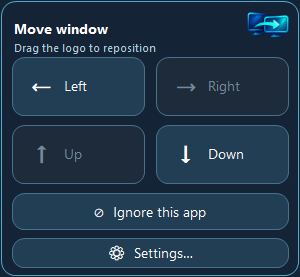
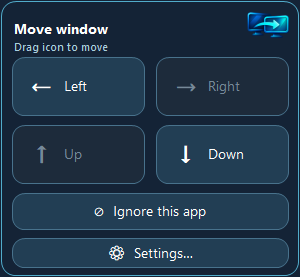
Fix overlay labels and bring settings to front

Changed region(s): [[0.06, 0.1444, 0.54, 0.2022], [0.39, 0.7509, 0.69, 0.8087], [0.3, 0.7509, 0.36, 0.7798]]

diff --git a/MonitorHop/OverlayForm.cs b/MonitorHop/OverlayForm.cs
@@ -265,14 +265,13 @@ internal sealed class OverlayForm : Form
         using var headingFont = new Font("Segoe UI", 10, FontStyle.Bold);
         using var labelFont = new Font("Segoe UI", 10);
         using var arrowFont = new Font("Segoe UI Symbol", 19, FontStyle.Bold);
-        TextRenderer.DrawText(graphics, Texts.Get(_language,
+        DrawFittedText(graphics, Texts.Get(_language,
                 _showMonitorMap ? "MonitorMapTitle" : "MoveWindow"), headingFont,
-            new Rectangle(14, 15, 226, 27), Color.White,
-            TextFormatFlags.Left | TextFormatFlags.VerticalCenter | TextFormatFlags.NoPadding);
+            new Rectangle(14, 15, 226, 27), Color.White, TextFormatFlags.Left);
         using var hintFont = new Font("Segoe UI", 8);
-        TextRenderer.DrawText(graphics, Texts.Get(_language, "DragHint"), hintFont,
+        DrawFittedText(graphics, Texts.Get(_language, "DragHint"), hintFont,
             new Rectangle(14, 39, 225, 16), Color.FromArgb(171, 206, 223),
-            TextFormatFlags.Left | TextFormatFlags.VerticalCenter | TextFormatFlags.NoPadding);
+            TextFormatFlags.Left);
         graphics.DrawImage(Branding.Image, new Rectangle(247, 3, 43, 43));
 
         if (_showMonitorMap)
@@ -288,23 +287,53 @@ internal sealed class OverlayForm : Form
                 TextRenderer.DrawText(graphics, Glyphs[i], arrowFont,
                     new Rectangle(rectangle.Left + 12, rectangle.Top + 9, 36, 36), ink,
                     TextFormatFlags.HorizontalCenter | TextFormatFlags.VerticalCenter | TextFormatFlags.NoPadding);
-                TextRenderer.DrawText(graphics, Texts.Get(_language, Directions[i].ToString()), labelFont,
+                DrawFittedText(graphics, Texts.Get(_language, Directions[i].ToString()), labelFont,
                     new Rectangle(rectangle.Left + 52, rectangle.Top + 13, 76, 31), ink,
-                    TextFormatFlags.Left | TextFormatFlags.VerticalCenter | TextFormatFlags.NoPadding);
+                    TextFormatFlags.Left);
             }
         }
 
         var ignore = IgnoreRect();
         PaintButton(graphics, ignore, true, _hovered == 4);
-        TextRenderer.DrawText(graphics, "⊘  " + Texts.Get(_language, "IgnoreApp"), labelFont,
-            ignore, Color.White,
-            TextFormatFlags.HorizontalCenter | TextFormatFlags.VerticalCenter | TextFormatFlags.NoPadding);
+        DrawFittedText(graphics, "⊘  " + Texts.Get(_language, "IgnoreApp"), labelFont,
+            Rectangle.Inflate(ignore, -10, 0), Color.White, TextFormatFlags.HorizontalCenter);
 
         var settings = SettingsRect();
         PaintButton(graphics, settings, true, _hovered == 5);
-        TextRenderer.DrawText(graphics, "⚙  " + Texts.Get(_language, "Settings"), labelFont,
-            settings, Color.White,
-            TextFormatFlags.HorizontalCenter | TextFormatFlags.VerticalCenter | TextFormatFlags.NoPadding);
+        DrawFittedText(graphics, "⚙  " + Texts.Get(_language, "Settings"), labelFont,
+            Rectangle.Inflate(settings, -10, 0), Color.White, TextFormatFlags.HorizontalCenter);
+    }
+
+    private static void DrawFittedText(Graphics graphics, string text, Font font,
+        Rectangle bounds, Color color, TextFormatFlags alignment)
+    {
+        const TextFormatFlags flags = TextFormatFlags.SingleLine |
+            TextFormatFlags.VerticalCenter | TextFormatFlags.NoPadding |
+            TextFormatFlags.EndEllipsis | TextFormatFlags.PreserveGraphicsClipping;
+        Font? smaller = null;
+        try
+        {
+            if (TextRenderer.MeasureText(graphics, text, font, Size.Empty,
+                TextFormatFlags.SingleLine | TextFormatFlags.NoPadding).Width <= bounds.Width)
+            {
+                TextRenderer.DrawText(graphics, text, font, bounds, color, flags | alignment);
+                return;
+            }
+            for (float size = font.Size - 0.5f; size >= 7; size -= 0.5f)
+            {
+                Font candidate = new(font.FontFamily, size, font.Style);
+                if (TextRenderer.MeasureText(graphics, text, candidate, Size.Empty,
+                    TextFormatFlags.SingleLine | TextFormatFlags.NoPadding).Width <= bounds.Width)
+                {
+                    smaller = candidate;
+                    break;
+                }
+                candidate.Dispose();
+            }
+            TextRenderer.DrawText(graphics, text, smaller ?? font, bounds, color,
+                flags | alignment);
+        }
+        finally { smaller?.Dispose(); }
     }
 
     private static void PaintButton(Graphics graphics, Rectangle rect, bool enabled, bool hovered)

diff --git a/MonitorHop/Texts.cs b/MonitorHop/Texts.cs
@@ -39,7 +39,7 @@ internal static class Texts
         ["Save"] = ("Сохранить", "Save", "Salvesta"),
         ["Cancel"] = ("Отмена", "Cancel", "Loobu"),
         ["MoveWindow"] = ("Перенести окно", "Move window", "Teisalda aken"),
-        ["DragHint"] = ("Перетащите значок, чтобы сдвинуть", "Drag the logo to reposition", "Asukoha muutmiseks lohista ikooni"),
+        ["DragHint"] = ("Перетащите значок", "Drag icon to move", "Lohista ikooni"),
         ["Left"] = ("Влево", "Left", "Vasakule"),
         ["Right"] = ("Вправо", "Right", "Paremale"),
         ["Up"] = ("Вверх", "Up", "Üles"),

diff --git a/MonitorHop/SettingsForm.cs b/MonitorHop/SettingsForm.cs
@@ -40,6 +40,7 @@ internal sealed class SettingsForm : Form
 
         StartPosition = FormStartPosition.CenterScreen;
         FormBorderStyle = FormBorderStyle.FixedDialog;
+        TopMost = true;
         MaximizeBox = false;
         MinimizeBox = false;
         ClientSize = new Size(650, 720);
